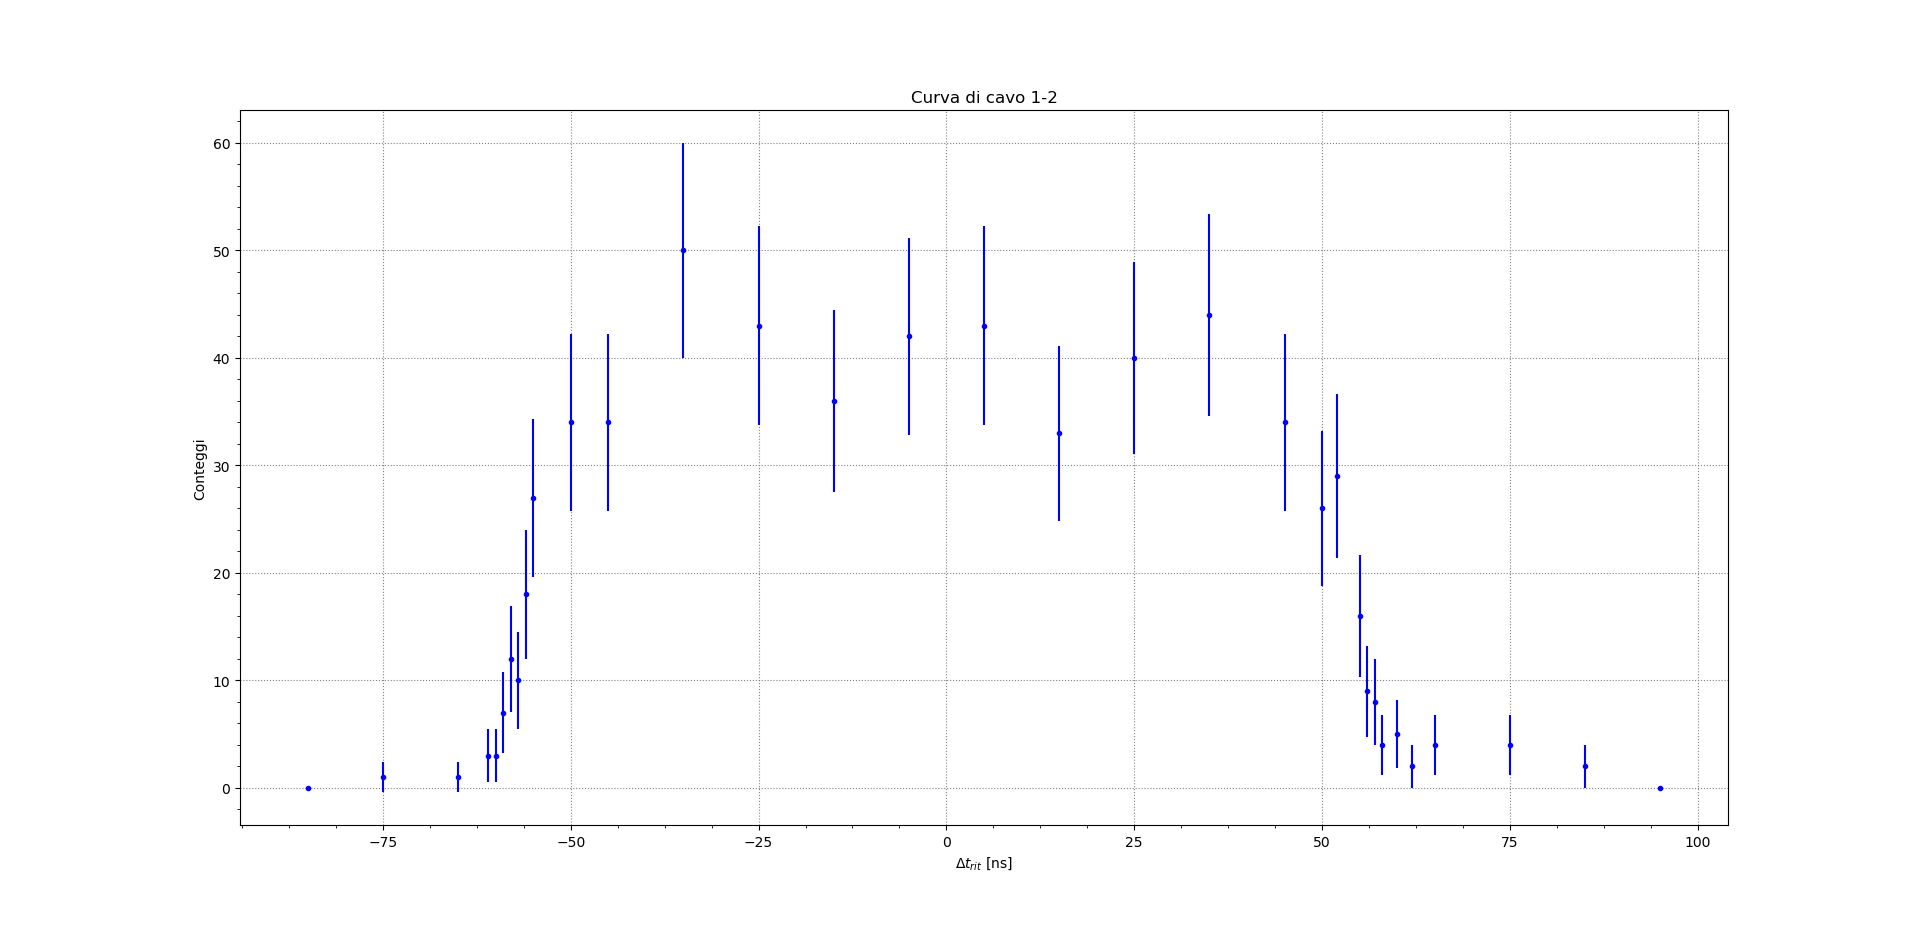
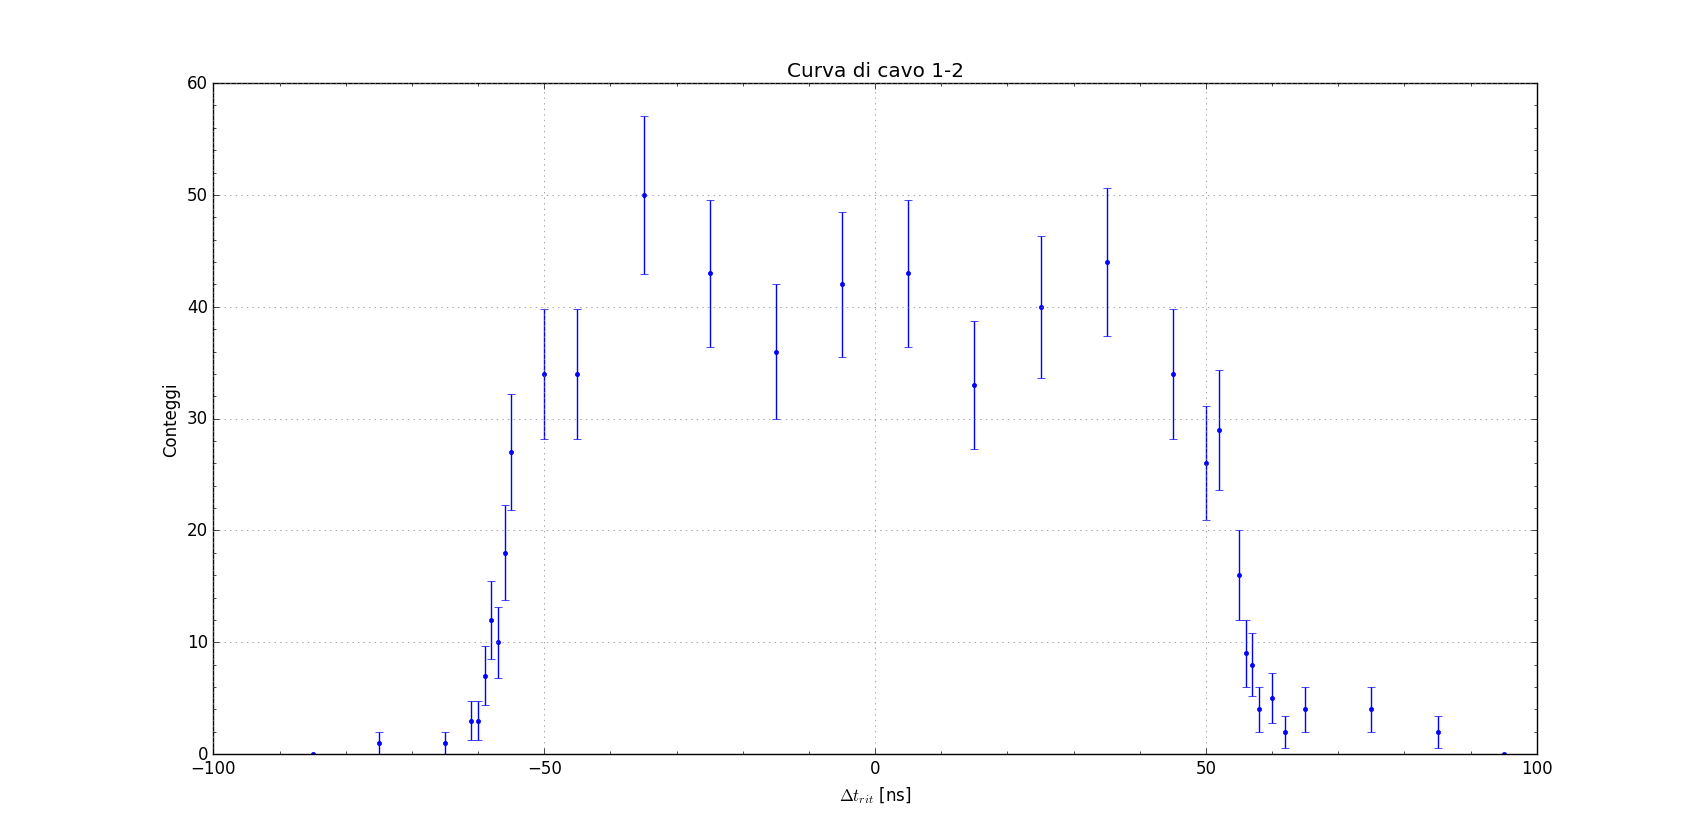
Efficienza del PMT in funzione di tensione di alimentazione e soglia

diff --git a/DatiLabIntFond/Preliminare/Cincidenze123-12.py b/DatiLabIntFond/Preliminare/Cincidenze123-12.py
@@ -1,0 +1,17 @@
+import numpy
+import pylab
+
+V, C3, C2, T = numpy.loadtxt("C:\\Users\\Utente Microsoft\\Documents\\Laurea_Magistrale\\LabIF\\Esperienza1\\DatiLabIntFond\Preliminare\\Concidenze123-13.txt", unpack = True)
+
+dC3 = numpy.sqrt(C3)
+dC2 = numpy.sqrt(C2)
+Err = numpy.sqrt((dC3/C3)**2+(dC2/C2)**2)*(C3/C2)
+dV = 0.007*V
+media = ((C3/C2).sum())/len(C3)
+print(media)
+pylab.errorbar(V,C3/C2, Err, dV, color = 'blue', fmt = '.')
+pylab.grid(color = 'gray', linestyle = 'dotted')
+pylab.xlabel("$V_{al, 2}$ [mV]")
+pylab.ylabel("Efficienza")
+pylab.minorticks_on()
+pylab.show()

diff --git a/DatiLabIntFond/Preliminare/Efficienza.py b/DatiLabIntFond/Preliminare/Efficienza.py
@@ -1,0 +1,18 @@
+import numpy
+import pylab
+
+V, C3, C2, T = numpy.loadtxt("C:\\Users\\Utente Microsoft\\Documents\\Laurea_Magistrale\\LabIF\\Esperienza1\\DatiLabIntFond\Preliminare\\Efficienza.txt", unpack = True)
+
+dC3 = numpy.sqrt(C3)
+dC2 = numpy.sqrt(C2)
+Err = numpy.sqrt((dC3/C3)**2+(dC2/C2)**2)*(C3/C2)
+dV = 0.007*V
+
+media = ((C3/C2).sum())/len(C3)
+print(media)
+pylab.errorbar(V,C3/C2, Err, dV, color = 'blue', fmt = '.')
+pylab.grid(color = 'gray', linestyle = 'dotted')
+pylab.xlabel("$V_{al, 2}$ [V]")
+pylab.ylabel("Efficienza")
+pylab.minorticks_on()
+pylab.show()

diff --git a/DatiLabIntFond/Preliminare/CurveDiCavo12.py b/DatiLabIntFond/Preliminare/CurveDiCavo12.py
@@ -3,7 +3,7 @@ import pylab
 
 #LOAD DATA
 Rit, Delta_t, N = numpy.loadtxt('CurveDiCavo12.txt', unpack = True)
-dN = numpy.sqrt(2*N)
+dN = numpy.sqrt(N)
 
 #Grafico
 
